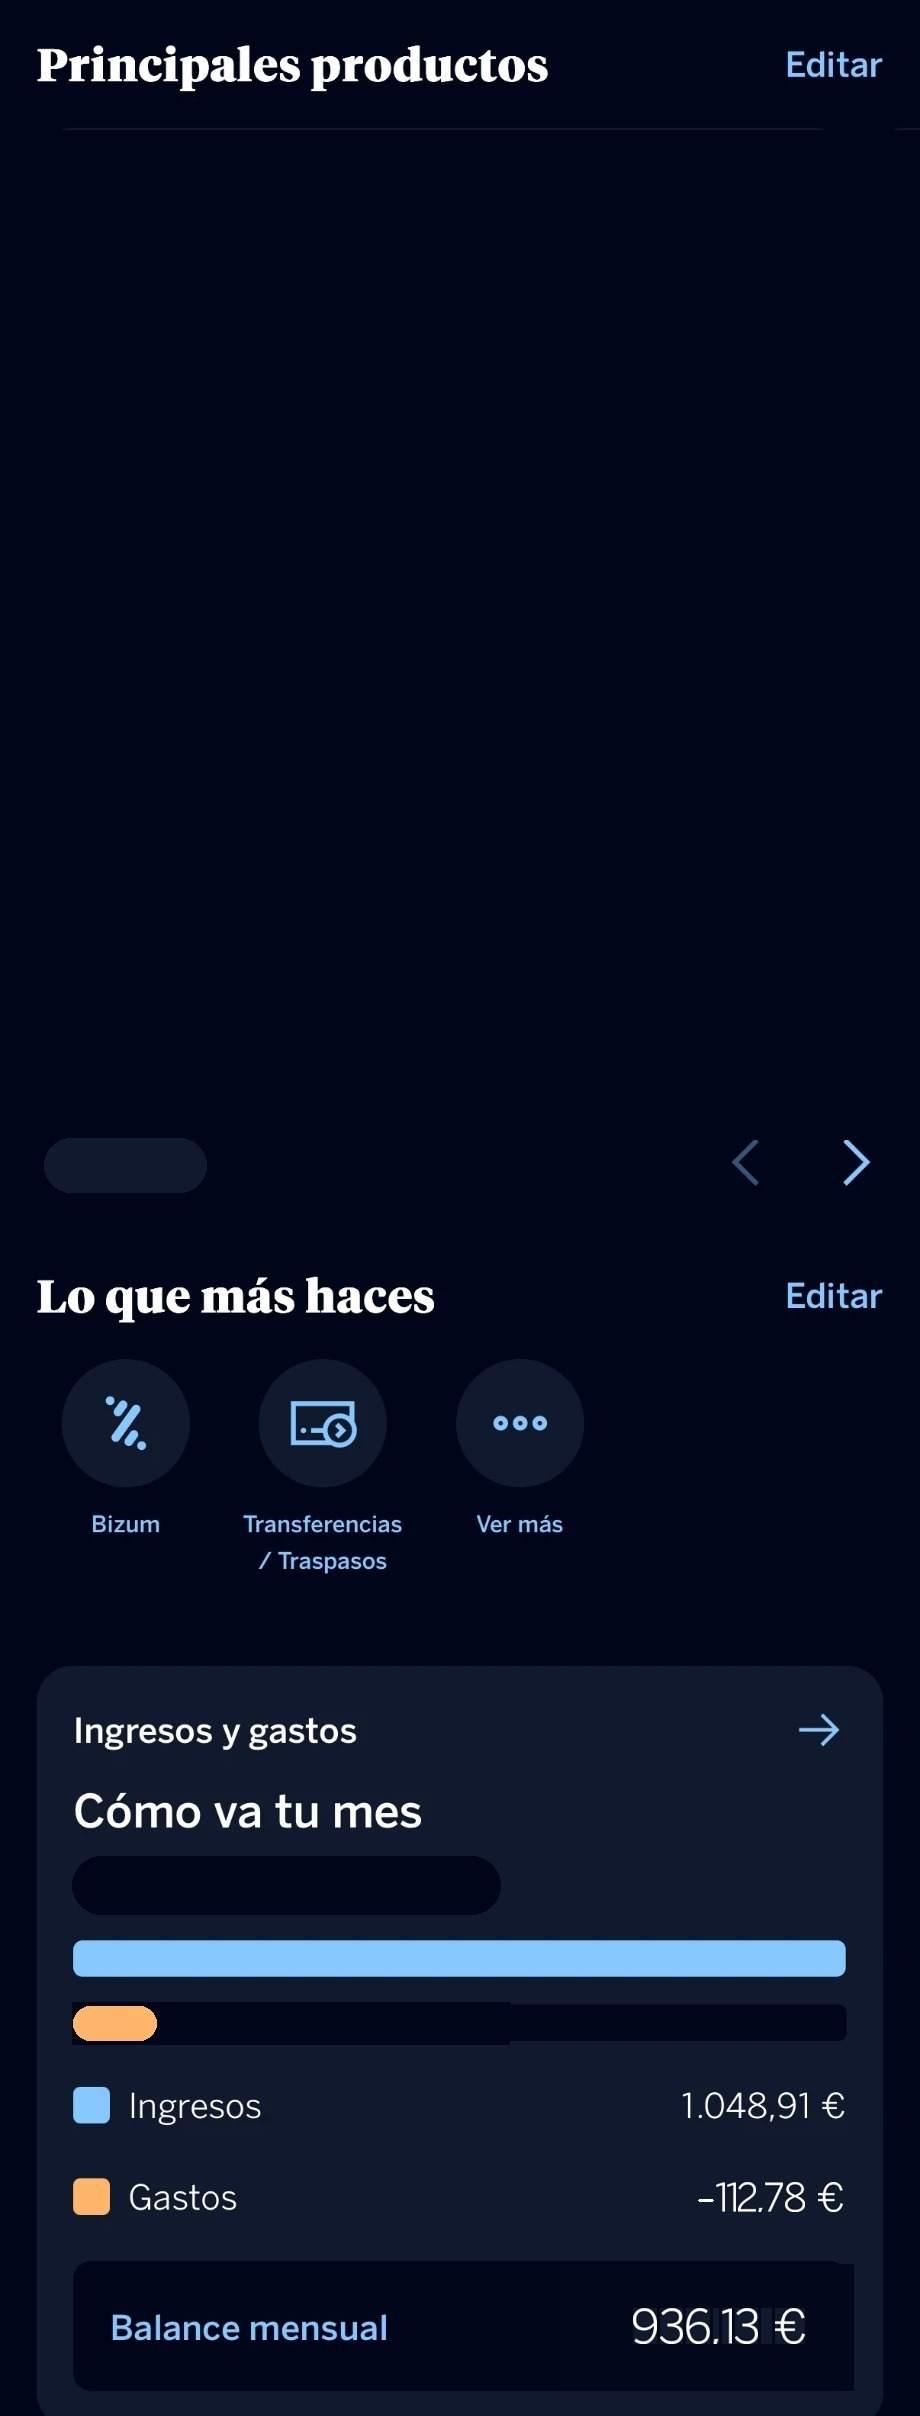
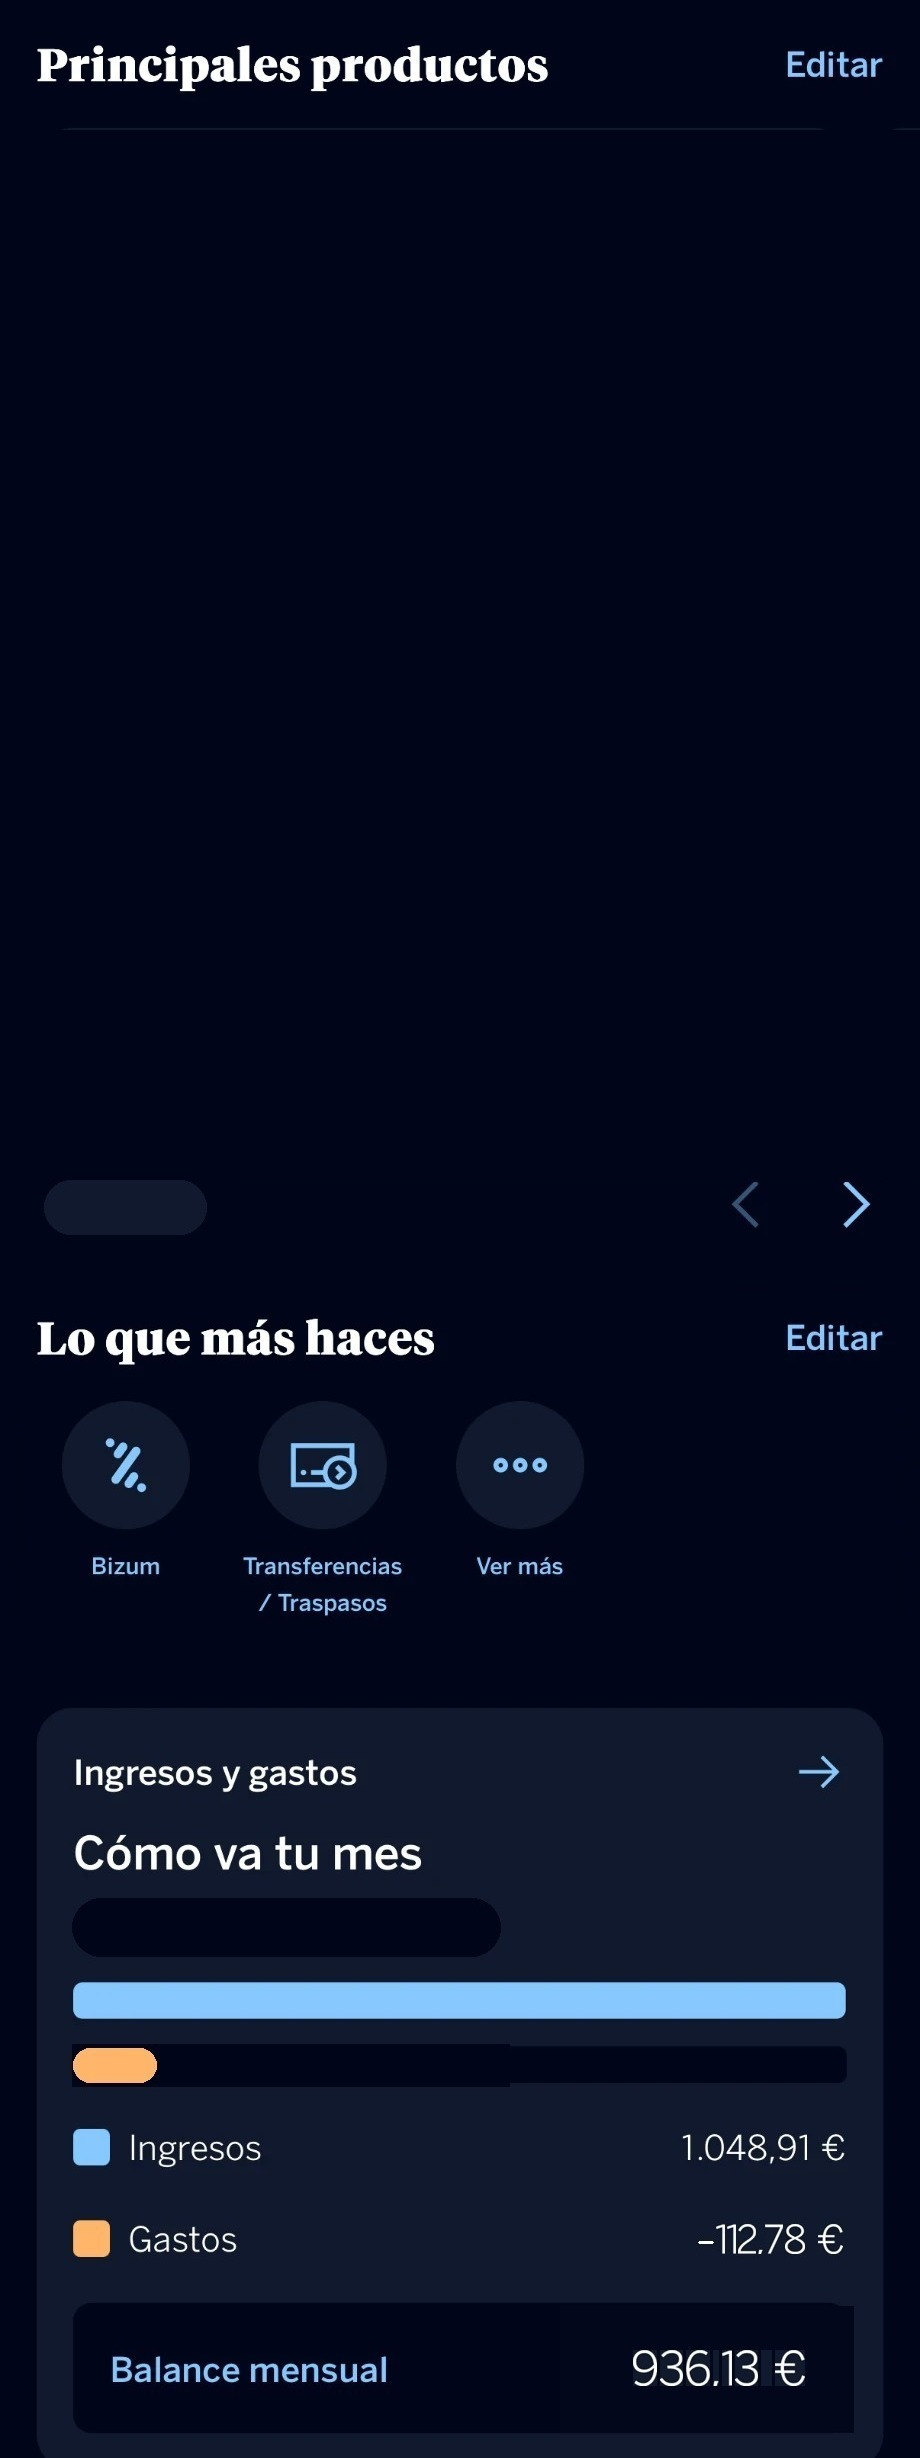
Mas espacio sobre el pager; 1 de 2 mas estetico (v35)

diff --git a/style.css b/style.css
@@ -16,14 +16,14 @@ html, body {
 /* La foto original va en el fondo raíz. El tamaño y el desplazamiento exactos
    en píxeles los pone el script según la pantalla. */
 html {
-  background: #144866 url("bg.jpg?v=34") 0 0 / 100vw 100vh no-repeat;
+  background: #144866 url("bg.jpg?v=35") 0 0 / 100vw 100vh no-repeat;
 }
 
 /* Modo app nativa (?app=1): foto limpia a pantalla completa y nítida
    (dentro de la app de iOS no hay desenfoque, así que no hacen falta parches) */
 html.app {
   background-color: #022d5a;
-  background-image: url("bg-app.jpg?v=34");
+  background-image: url("bg-app.jpg?v=35");
 }
 html.app .edge {
   display: none;
@@ -337,7 +337,7 @@ body.sheet-open .stage { filter: blur(9px) brightness(0.45); }
   position: fixed;
   inset: 0;
   z-index: 20;
-  background: #0a1a2f url("bg-home.jpg?v=34") center top / 100% 100% no-repeat;
+  background: #0a1a2f url("bg-home.jpg?v=35") center top / 100% 100% no-repeat;
   transform: translateX(100%);
   transition: transform 0.3s cubic-bezier(0.25, 0.8, 0.3, 1);
   visibility: hidden;
@@ -375,13 +375,13 @@ body.sheet-open .stage { filter: blur(9px) brightness(0.45); }
 .ver-head {
   position: absolute; top: 0; left: 0; width: 100%;
   height: calc(485 * var(--p));
-  background: #00051a url("ver-head.jpg?v=34") 0 0 / 100% 100% no-repeat;
+  background: #00051a url("ver-head.jpg?v=35") 0 0 / 100% 100% no-repeat;
   z-index: 4;
 }
 .ver-nav {
   position: absolute; bottom: 0; left: 0; width: 100%;
   height: calc(284 * var(--p));
-  background: #00051a url("ver-nav.jpg?v=34") 0 0 / 100% 100% no-repeat;
+  background: #00051a url("ver-nav.jpg?v=35") 0 0 / 100% 100% no-repeat;
   z-index: 4;
 }
 .ver-scroll {
@@ -393,8 +393,8 @@ body.sheet-open .stage { filter: blur(9px) brightness(0.45); }
 }
 .ver-content {
   position: relative; width: 100%;
-  height: calc(2416 * var(--p));
-  background: #00051a url("ver-content.jpg?v=34") 0 0 / 100% 100% no-repeat;
+  height: calc(2458 * var(--p));
+  background: #00051a url("ver-content.jpg?v=35") 0 0 / 100% 100% no-repeat;
 }
 
 .ver-track {
@@ -416,7 +416,7 @@ body.sheet-open .stage { filter: blur(9px) brightness(0.45); }
 }
 
 .ver-pager {
-  position: absolute; top: calc(1148 * var(--p)); left: calc(66 * var(--p));
+  position: absolute; top: calc(1190 * var(--p)); left: calc(66 * var(--p));
   color: rgb(214, 220, 228);
   font-family: "PT Serif", Georgia, serif; font-style: italic;
   font-size: calc(38 * var(--p));
@@ -424,7 +424,7 @@ body.sheet-open .stage { filter: blur(9px) brightness(0.45); }
 
 /* Ingresos y gastos: valores editados */
 .ig-period {
-  position: absolute; top: calc(1864 * var(--p)); left: calc(96 * var(--p));
+  position: absolute; top: calc(1906 * var(--p)); left: calc(96 * var(--p));
   color: #e7edf6; font-family: "Lora", Georgia, serif; font-style: italic;
   font-size: calc(37 * var(--p)); white-space: nowrap;
 }

diff --git a/index.html b/index.html
@@ -12,13 +12,13 @@
   <meta name="apple-mobile-web-app-status-bar-style" content="default" />
   <meta name="apple-mobile-web-app-title" content="BBVA" />
   <meta name="theme-color" content="#144866" />
-  <link rel="manifest" href="manifest.json?v=34" />
+  <link rel="manifest" href="manifest.json?v=35" />
 
   <link rel="preconnect" href="https://fonts.googleapis.com" />
   <link rel="preconnect" href="https://fonts.gstatic.com" crossorigin />
   <link href="https://fonts.googleapis.com/css2?family=Lora:wght@600;700&family=Libre+Franklin:wght@300;400&family=PT+Serif:ital@1&family=Inter:wght@300;400;500;600&display=swap" rel="stylesheet" />
 
-  <link rel="stylesheet" href="style.css?v=34" />
+  <link rel="stylesheet" href="style.css?v=35" />
 </head>
 <body>
   <!-- Tira lisa arriba: iOS 26 solo deja de desenfocar si el borde superior de la página es de color liso -->
@@ -46,7 +46,7 @@
   <div class="sheet-overlay" id="sheet" aria-hidden="true">
     <div class="sheet-dim" id="sheetDim"></div>
     <section class="sheet" role="dialog" aria-modal="true" aria-label="Iniciar sesión">
-      <img class="sheet-img" src="sheet-bg.jpg?v=34" alt="" draggable="false" />
+      <img class="sheet-img" src="sheet-bg.jpg?v=35" alt="" draggable="false" />
 
       <!-- Campo vivo (encima del de la foto): etiqueta flotante + puntos -->
       <div class="field2" id="field2">
@@ -84,10 +84,10 @@
       <div class="ver-content">
         <!-- carrusel de cuentas -->
         <div class="ver-track" id="verTrack">
-          <section class="ver-card" style="background-image:url('card1.jpg?v=34')">
+          <section class="ver-card" style="background-image:url('card1.jpg?v=35')">
             <button class="hit hit-maint ver-analisis" type="button" aria-label="Ver análisis de gasto"></button>
           </section>
-          <section class="ver-card" style="background-image:url('card2.jpg?v=34')">
+          <section class="ver-card" style="background-image:url('card2.jpg?v=35')">
             <button class="hit hit-maint ver-analisis" type="button" aria-label="Ver análisis de gasto"></button>
           </section>
         </div>
